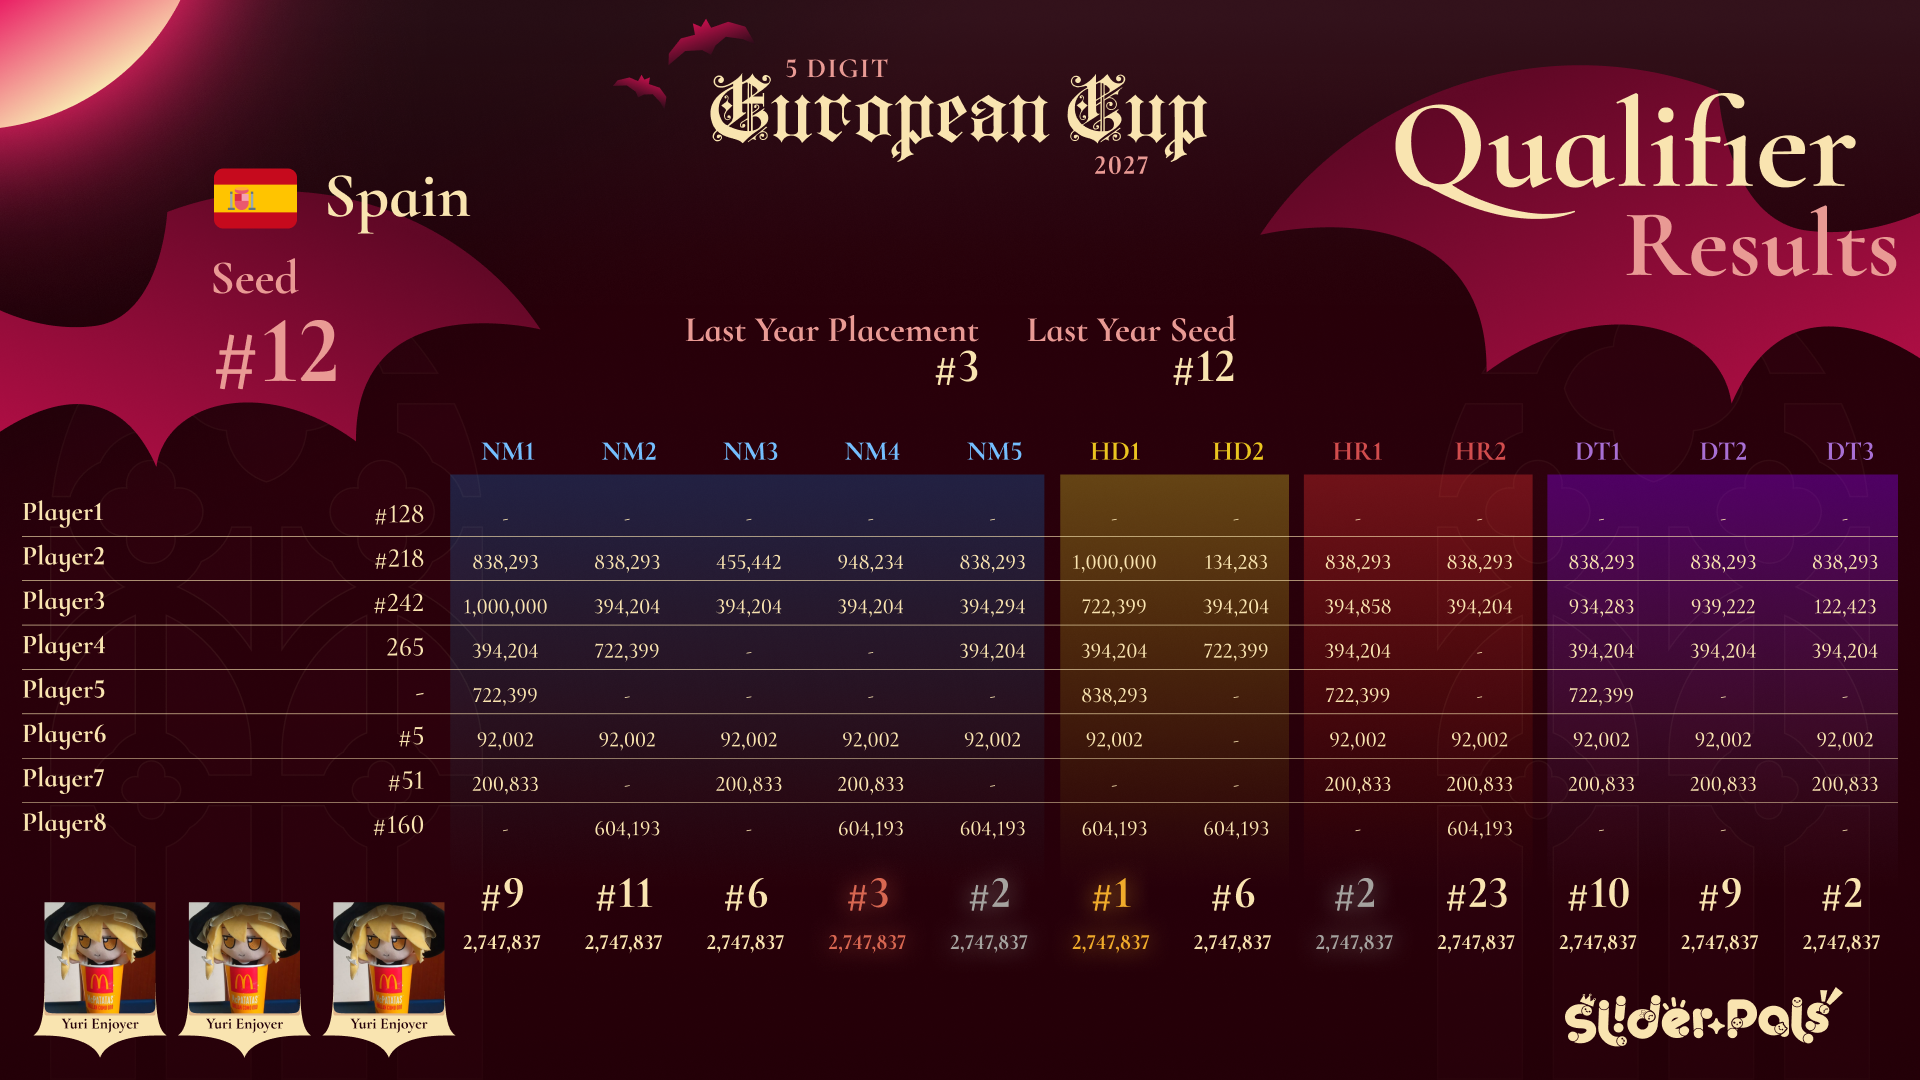
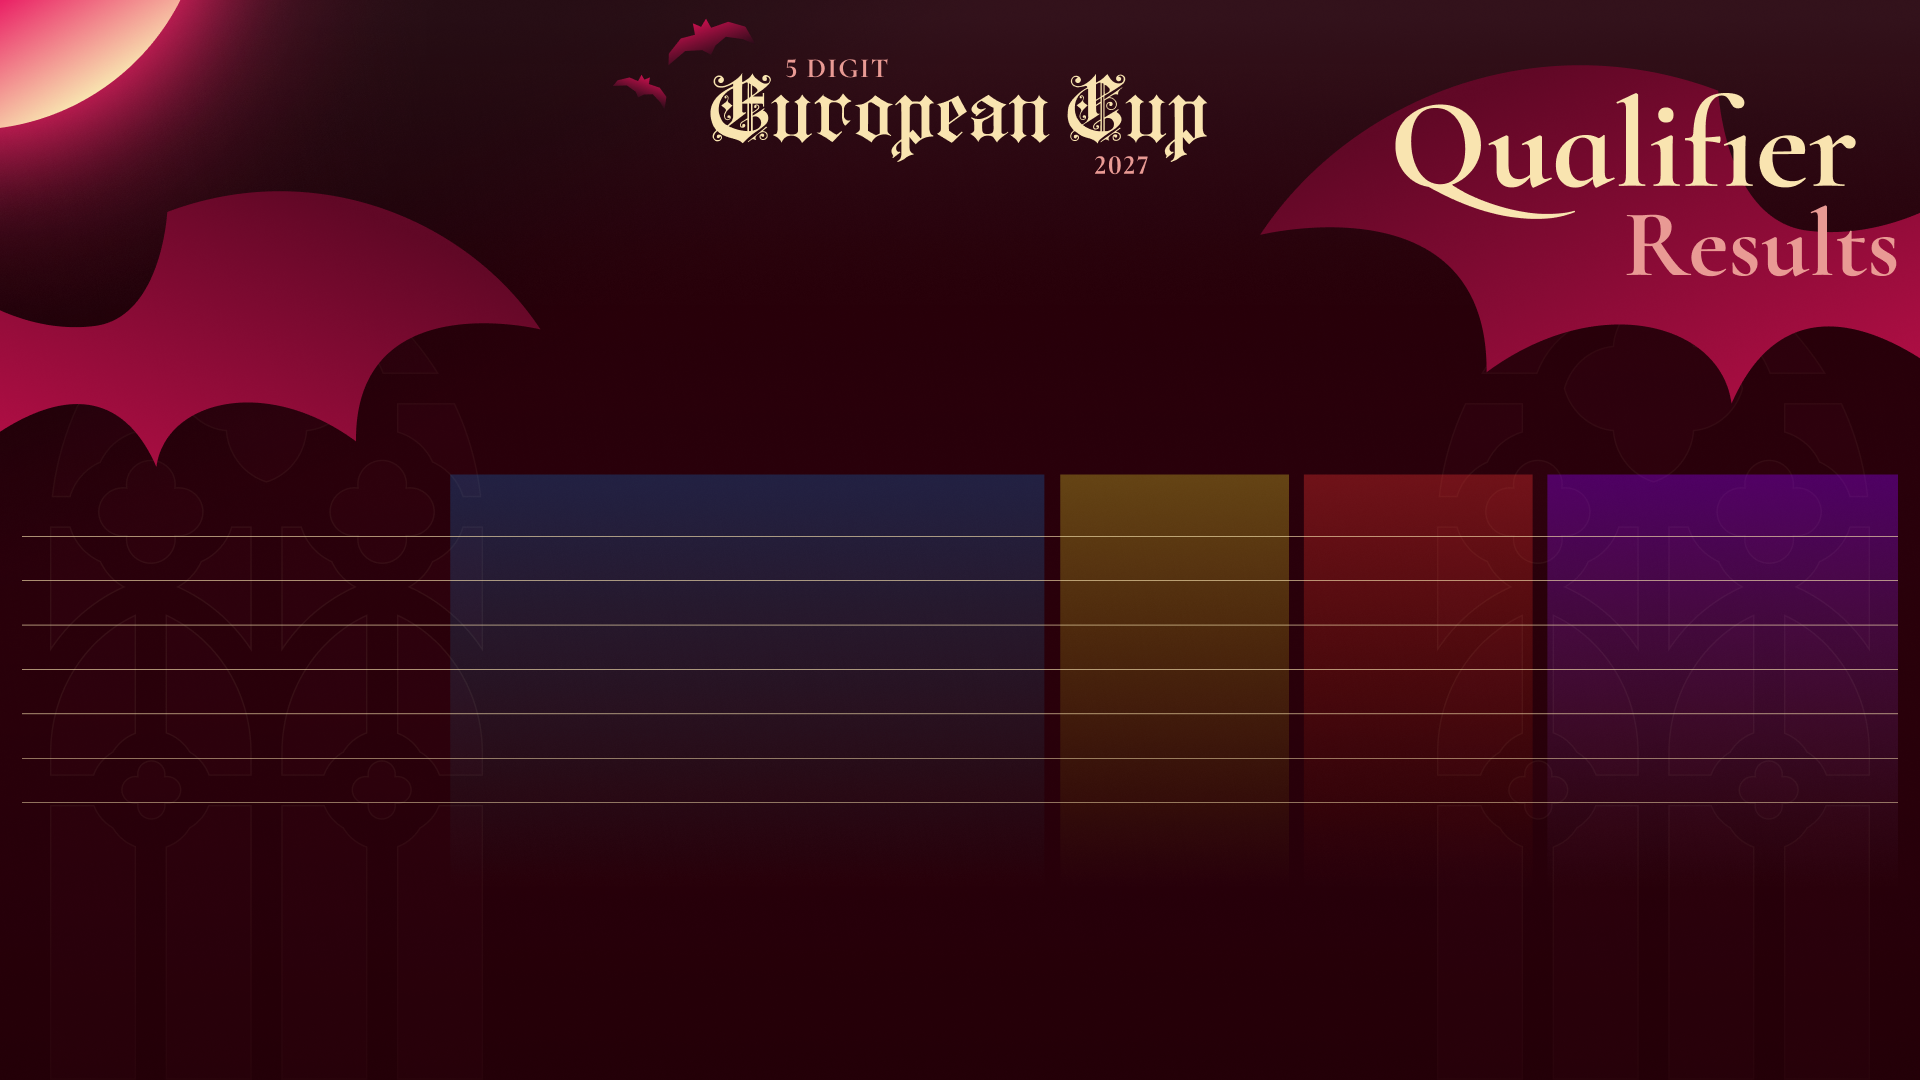
fix: adjust

diff --git a/seeding/style.css b/seeding/style.css
@@ -103,7 +103,7 @@
 /* Player Rank Container */
 .player-rank-container {
     position: absolute;
-    top: 497px;
+    top: 493px;
     left: 22px;
     width: 402.29px;
 }
@@ -112,7 +112,7 @@
     color: var(--delicate-gold);
     font-size: 1.7075rem;
     display: flex;
-    gap: 11px;
+    gap: 1.3px;
     flex-direction: column;
 }
 
@@ -125,8 +125,14 @@
     color: var(--delicate-gold);
     font-size: 1.7075rem;
     display: flex;
-    gap: 11px;
+    gap: 1.3px;
     flex-direction: column;
+}
+
+.player-container > *,
+.rank-container > * {
+    height: 43px;
+    line-height: 43px;
 }
 
 .scores-container {
